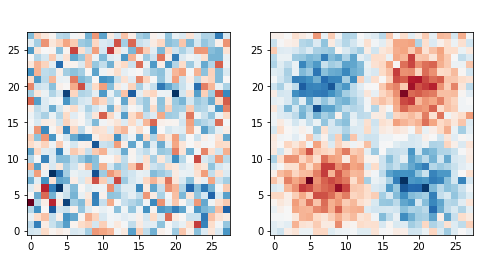
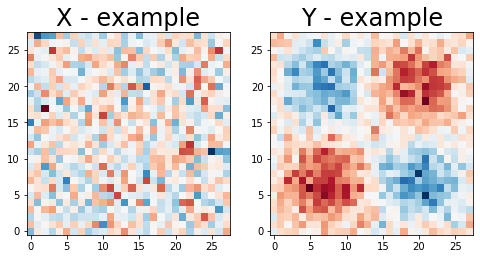
fixed plot font color

diff --git a/simple_CNN/simple_CNN.md b/simple_CNN/simple_CNN.md
@@ -52,9 +52,9 @@ y = wn2d(n, mu = mu, pts = p)
 fig, ax = plt.subplots(1, 2, figsize = (8, 4))
 
 ax[0].imshow(x[0,...], origin = 'bottom', cmap = 'RdBu_r')
-ax[0].set_title('X - instance', fontsize = 24, color = 'white')
+ax[0].set_title('X - example', fontsize = 24)
 ax[1].imshow(y[0,...], origin = 'bottom', cmap = 'RdBu_r')
-ax[1].set_title('Y - instance', fontsize = 24, color = 'white')
+ax[1].set_title('Y - example', fontsize = 24)
 plt.show()
 ```
 
@@ -131,7 +131,7 @@ criterion = nn.MSELoss()
 
 
 ```python
-epochs = 1000
+epochs = 2000
 for j in range(epochs):
     # reset loss value at the beginning of each training epoch
     loss = 0
@@ -158,27 +158,27 @@ for j in range(epochs):
 print("[iteration %04d] loss: %.6f" % (j+1, loss))
 ```
 
-    [iteration 0000] loss: 0.287239
-    [iteration 0050] loss: 0.002429
-    [iteration 0100] loss: 0.001298
-    [iteration 0150] loss: 0.000803
-    [iteration 0200] loss: 0.000490
-    [iteration 0250] loss: 0.000297
-    [iteration 0300] loss: 0.000180
-    [iteration 0350] loss: 0.000108
-    [iteration 0400] loss: 0.000063
-    [iteration 0450] loss: 0.000037
-    [iteration 0500] loss: 0.000021
-    [iteration 0550] loss: 0.000012
-    [iteration 0600] loss: 0.000007
-    [iteration 0650] loss: 0.000004
-    [iteration 0700] loss: 0.000002
-    [iteration 0750] loss: 0.000001
-    [iteration 0800] loss: 0.000000
-    [iteration 0850] loss: 0.000000
-    [iteration 0900] loss: 0.000000
-    [iteration 0950] loss: 0.000000
-    [iteration 1000] loss: 0.000000
+    [iteration 0000] loss: 0.894185
+    [iteration 0100] loss: 0.001045
+    [iteration 0200] loss: 0.000463
+    [iteration 0300] loss: 0.000204
+    [iteration 0400] loss: 0.000093
+    [iteration 0500] loss: 0.000043
+    [iteration 0600] loss: 0.000020
+    [iteration 0700] loss: 0.000009
+    [iteration 0800] loss: 0.000004
+    [iteration 0900] loss: 0.000002
+    [iteration 1000] loss: 0.000001
+    [iteration 1100] loss: 0.000000
+    [iteration 1200] loss: 0.000000
+    [iteration 1300] loss: 0.000000
+    [iteration 1400] loss: 0.000000
+    [iteration 1500] loss: 0.000000
+    [iteration 1600] loss: 0.000000
+    [iteration 1700] loss: 0.000000
+    [iteration 1800] loss: 0.000000
+    [iteration 1900] loss: 0.000000
+    [iteration 2000] loss: 0.000000
 
 
 
@@ -193,12 +193,12 @@ label = label.cpu().detach().numpy()
 
 
 ```python
-# lo and behold it worked. First 100 are 0 (X's label). Second 100 are 1 (Y's label)
+# lo and behold it worked. First 100 are ~0 (X's label). Second 100 are ~1 (Y's label)
 fig, ax = plt.subplots(1, 2, figsize = (12, 4))
 ax[0].plot(label)
-ax[0].set_title('True labels', fontsize = 24, color = 'white')
+ax[0].set_title('True labels', fontsize = 24)
 ax[1].plot(label_hat)
-ax[1].set_title('Predicted labels', fontsize = 24, color = 'white')
+ax[1].set_title('Predicted labels', fontsize = 24)
 plt.show()
 ```
 

diff --git a/simple_MLP/simple_MLP.md b/simple_MLP/simple_MLP.md
@@ -52,9 +52,9 @@ y = wn2d(n, mu = mu, pts = p)
 fig, ax = plt.subplots(1, 2, figsize = (8, 4))
 
 ax[0].imshow(x[0,...], origin = 'bottom', cmap = 'RdBu_r')
-ax[0].set_title('X - instance', fontsize = 24, color = 'white')
+ax[0].set_title('X - example', fontsize = 24)
 ax[1].imshow(y[0,...], origin = 'bottom', cmap = 'RdBu_r')
-ax[1].set_title('Y - instance', fontsize = 24, color = 'white')
+ax[1].set_title('Y - example', fontsize = 24)
 plt.show()
 ```
 
@@ -146,13 +146,13 @@ for j in range(epochs):
 print("[iteration %04d] loss: %.6f" % (j+1, loss))
 ```
 
-    [iteration 0000] loss: 0.352520
-    [iteration 0050] loss: 0.000930
-    [iteration 0100] loss: 0.000055
-    [iteration 0150] loss: 0.000017
-    [iteration 0200] loss: 0.000005
-    [iteration 0250] loss: 0.000001
-    [iteration 0300] loss: 0.000000
+    [iteration 0000] loss: 0.535031
+    [iteration 0050] loss: 0.000730
+    [iteration 0100] loss: 0.000069
+    [iteration 0150] loss: 0.000021
+    [iteration 0200] loss: 0.000007
+    [iteration 0250] loss: 0.000002
+    [iteration 0300] loss: 0.000001
     [iteration 0350] loss: 0.000000
     [iteration 0400] loss: 0.000000
     [iteration 0450] loss: 0.000000
@@ -184,9 +184,9 @@ label = label.cpu().detach().numpy()
 # lo and behold it worked. First 100 are 0 (X's label). Second 100 are 1 (Y's label)
 fig, ax = plt.subplots(1, 2, figsize = (12, 4))
 ax[0].plot(label)
-ax[0].set_title('True labels', fontsize = 24, color = 'white')
+ax[0].set_title('True labels', fontsize = 24)
 ax[1].plot(label_hat)
-ax[1].set_title('Predicted labels', fontsize = 24, color = 'white')
+ax[1].set_title('Predicted labels', fontsize = 24)
 plt.show()
 ```
 
